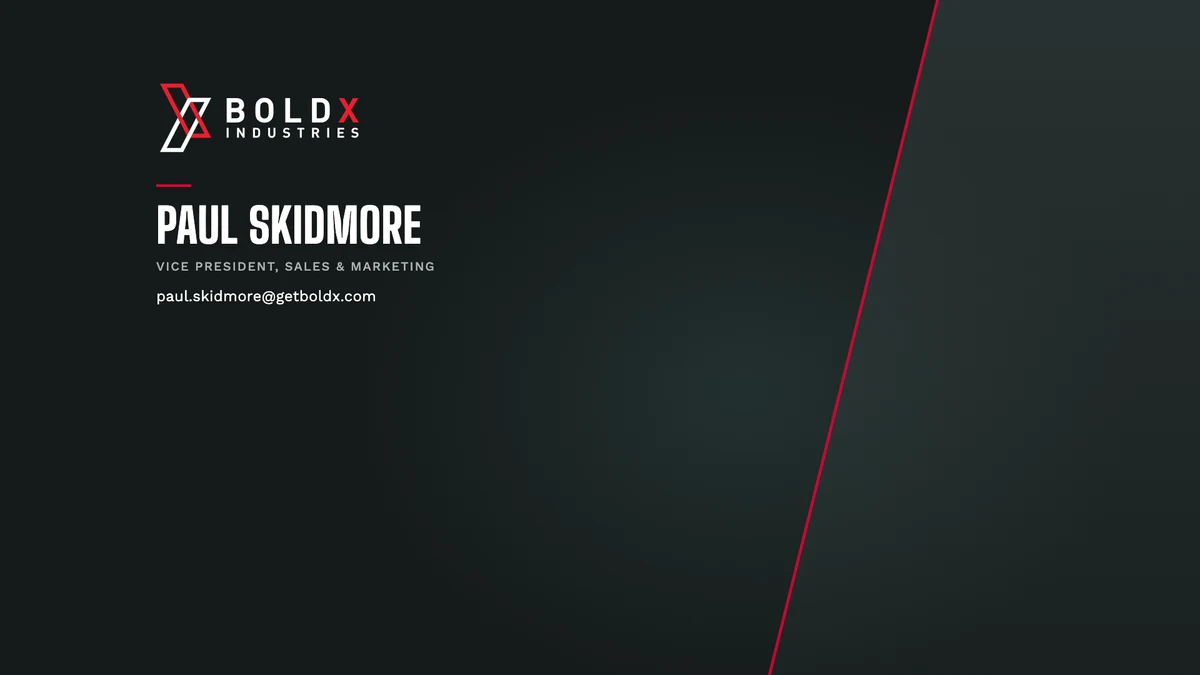
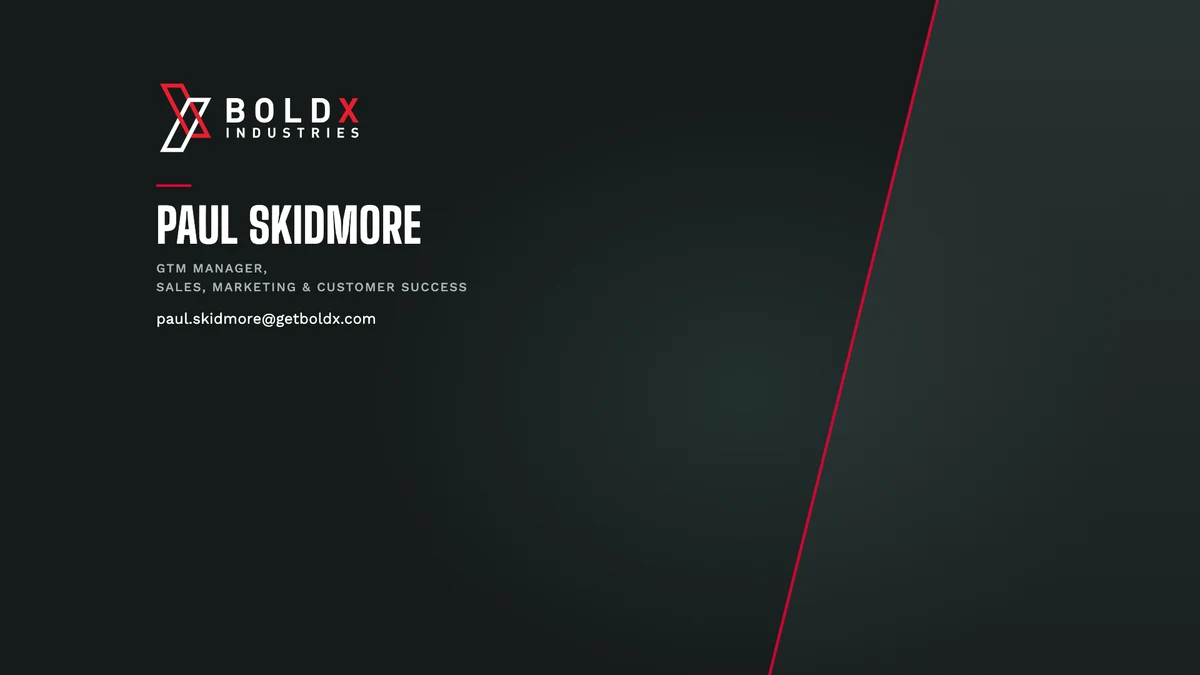
fix: the meeting background carries the résumé title
GTM Manager, Sales, Marketing & Customer Success, set on two lines to keep it clear of the speaker, so the image matches the title on the rest of the site.

Changed region(s): [[0.1233, 0.3733, 0.4008, 0.4978]]

diff --git a/src/__tests__/lib/content-boldx-case-study.test.ts b/src/__tests__/lib/content-boldx-case-study.test.ts
@@ -121,6 +121,8 @@ describe("BoldX case study content", () => {
   it("shows only the clean meeting background Paul built", () => {
     const backgrounds = boldxCaseStudy.gallery.items.filter((i) => /zoom|meeting background/i.test(i.caption + i.src));
     expect(backgrounds.map((i) => i.src)).toEqual(["/work/boldx/zoom-background-name-title.webp"]);
+    expect(backgrounds[0]?.alt).toMatch(/GTM Manager, Sales, Marketing & Customer Success/);
+    expect(backgrounds[0]?.alt).not.toMatch(/Vice President/);
   });
 
   it("names no Flask or Next.js anywhere on the site, and credits n8n and Popl", () => {

diff --git a/src/app/work/boldx/content.ts b/src/app/work/boldx/content.ts
@@ -80,7 +80,7 @@ const galleryRows: GalleryItem[][] = [
     {
       src: "/work/boldx/zoom-background-name-title.webp",
       ratio: 1.778,
-      alt: "Meeting background: Paul Skidmore, Vice President, Sales & Marketing, with the BoldX logo over charcoal and a thin red diagonal",
+      alt: "Meeting background: Paul Skidmore, GTM Manager, Sales, Marketing & Customer Success, with the BoldX logo over charcoal and a thin red diagonal",
       caption: "Meeting background",
     },
     {
